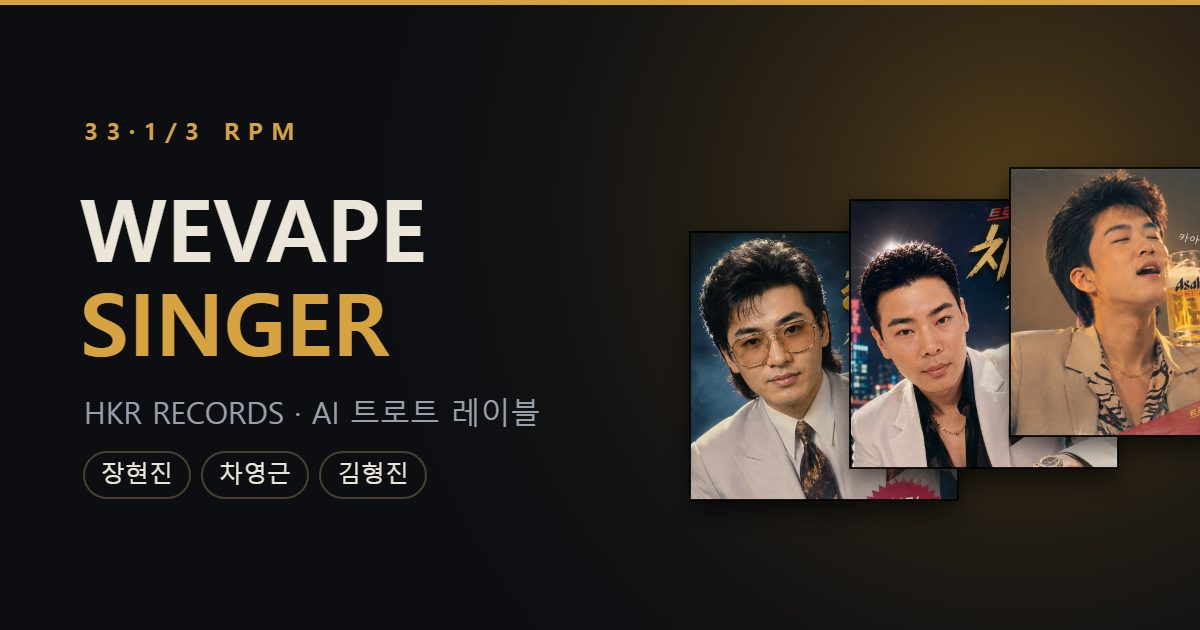
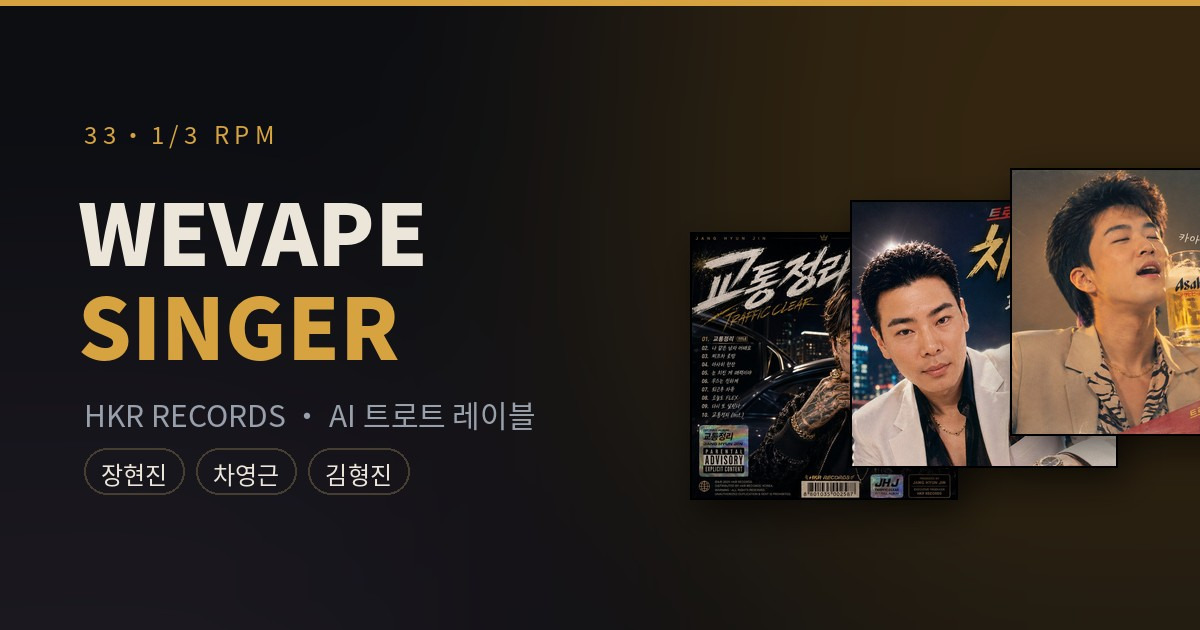
전체 접속자 누적 재생수 집계(공용 서버) · 프로필/앨범자켓 분리 · 1집 자켓 복원 · sw v4

diff --git a/index.html b/index.html
@@ -559,7 +559,8 @@ svg[hidden]{display:none}
    ---------------------------------------------------------------------
    artist  : id(영문·숫자), name(가수명), tag(장르), bio(소개)
              color/color2 = 앨범 배경 그라디언트 색
-             photo = "파일명.jpg"  (비워두면 색 그라디언트로 표시)
+             photo = 가수 프로필 사진 (가수 명단·홈 카드 고정. 앨범 추가해도 안 바뀜)
+   album   : cover = 그 앨범 자켓 (그 앨범 수록곡에만 적용)
    track   : title(곡명), src="파일명.mp3" (비워두면 데모 사운드로 재생)
              duration = 초 단위(선택 · 비워두면 재생할 때 자동으로 읽음)
    ===================================================================== */
@@ -577,7 +578,7 @@ const ARTISTS = [
       "첫 번째는 사랑, 두 번째는 사람, 세 번째는 밀린 업무. 순서까지 정해두고 사는 남자다. 내일 할까 물으면 안 돼 안 돼, 다음에 할까 물어도 안 돼 안 돼. 오늘 할 건 오늘 하고 미련 없이 털어내는 것이 그의 유일한 규칙이다.",
       "그리고 2025년, 그는 바다를 건넜다. 일본 호스트바의 밤을 걸으면서도 매일 뮤직뱅크를 틀어놓았고, 그렇게 꽂힌 한국 힙합을 안고 돌아왔다. 트로트 신사가 마이크를 고쳐 잡은 이유는 하나다. 여기도 좀 정리가 필요해서."
     ],
-    color: "#C9A227", color2: "#16223F", photo: "traffic-clear.jpg",
+    color: "#C9A227", color2: "#16223F", photo: "hyunjin.jpg",
     albums: [
       {
         title: "교통정리", en: "TRAFFIC CLEAR", year: "2025", cat: "HKR-2501", cover: "traffic-clear.jpg",
@@ -664,7 +665,7 @@ const ARTISTS = [
         ]
       },
       {
-        title: "정리할게요", en: "", year: "1987", cat: "AC-0258", cover: "hyunjin.jpg",
+        title: "정리할게요", en: "", year: "1987", cat: "AC-0258", cover: "jeongri-halkkeyo.jpg",
         note: "정규 1집. 트로트 신사 장현진의 데뷔작.",
         tracks: [
           { title: "정리할게요", src: "jeongri-halkkeyo.mp3", duration: 199, tag: "타이틀", lyrics: `
@@ -954,7 +955,61 @@ ARTISTS.forEach((a) => a.albums.forEach((al, ai) => al.tracks.forEach((t, ti) =>
 ARTISTS.forEach(a => { a.trackCount = a.albums.reduce((n, al) => n + al.tracks.length, 0); });
 const PLAYABLE = QUEUE.filter(t => t.src);
 
-/* ---- 재생 기록 (이 기기에 저장) ---- */
+/* ---- 재생 집계 ----
+   REMOTE : 전 세계 접속자 합산 (공용 카운터 서버)
+   local  : 이 기기 백업 (서버가 안 될 때만 사용)          ---- */
+const CT = { base: "https://abacus.jasoncameron.dev", ns: "wevape-singer-hkr" };
+const pad2 = (n) => String(n).padStart(2, "0");
+function isoWeek(d) {
+  const t = new Date(Date.UTC(d.getFullYear(), d.getMonth(), d.getDate()));
+  t.setUTCDate(t.getUTCDate() - ((t.getUTCDay() + 6) % 7) + 3);
+  const y = t.getUTCFullYear();
+  const jan4 = new Date(Date.UTC(y, 0, 4));
+  const w = 1 + Math.round(((t - jan4) / 864e5 - 3 + ((jan4.getUTCDay() + 6) % 7)) / 7);
+  return y + pad2(w);
+}
+function bucket(range, d) {
+  d = d || new Date();
+  if (range === "day") return "d" + d.getFullYear() + pad2(d.getMonth() + 1) + pad2(d.getDate());
+  if (range === "week") return "w" + isoWeek(d);
+  if (range === "month") return "m" + d.getFullYear() + pad2(d.getMonth() + 1);
+  return "all";
+}
+const ckey = (range, trackKey) => bucket(range) + "-" + String(trackKey).replace(/[^a-zA-Z0-9_-]/g, "-");
+const RANGE_ALL = ["day", "week", "month", "all"];
+const REMOTE = {};
+let remoteState = "idle";
+
+function cGet(k) {
+  return fetch(CT.base + "/get/" + CT.ns + "/" + k, { cache: "no-store" })
+    .then(r => (r.status === 404 ? { value: 0 } : r.json()))
+    .then(j => (j.value | 0))
+    .catch(() => null);
+}
+function cHit(k) {
+  fetch(CT.base + "/hit/" + CT.ns + "/" + k, { cache: "no-store" })
+    .then(r => r.json())
+    .then(j => { if (typeof j.value === "number") { REMOTE[k] = j.value; refreshChartRows(); } })
+    .catch(() => {});
+}
+function loadCounts(range) {
+  remoteState = "loading";
+  const ks = PLAYABLE.map(t => ckey(range, t.key));
+  return Promise.all(ks.map(cGet)).then(vals => {
+    let ok = false;
+    ks.forEach((k, i) => { if (vals[i] !== null) { REMOTE[k] = Math.max(REMOTE[k] || 0, vals[i]); ok = true; } });
+    remoteState = ok ? "ok" : "fail";
+    refreshChartRows();
+  });
+}
+function refreshChartRows() {
+  if (currentView !== "chart") return;
+  const box = document.getElementById("rankList");
+  if (box) box.innerHTML = chartRowsHtml();
+  const note = document.getElementById("chartNote");
+  if (note) note.innerHTML = chartNoteHtml();
+}
+
 const PLAYLOG_KEY = "wevape-singer-plays";
 function readLog() {
   try { const v = JSON.parse(localStorage.getItem(PLAYLOG_KEY) || "[]"); return Array.isArray(v) ? v : []; }
@@ -965,15 +1020,25 @@ function writeLog(list) {
 }
 function logPlay(key) {
   const l = readLog(); l.push([key, Date.now()]); writeLog(l);
-  if (currentView === "chart") { const box = document.getElementById("rankList"); if (box) box.innerHTML = chartRowsHtml(); }
+  RANGE_ALL.forEach(r => {
+    const k = ckey(r, key);
+    REMOTE[k] = (REMOTE[k] || 0) + 1;   /* 화면에 즉시 반영 */
+    cHit(k);                            /* 서버에 누적 */
+  });
+  refreshChartRows();
 }
-const RANGES = { day: 1, week: 7, month: 30 };
-const RANGE_LABEL = { day: "일간", week: "주간", month: "월간" };
+const RANGE_LABEL = { day: "일간", week: "주간", month: "월간", all: "전체 누적" };
+const RANGE_DESC = { day: "오늘 하루", week: "이번 주(월~일)", month: "이번 달", all: "서비스 시작 이후 전체" };
+function localCount(range, key) {
+  const b = bucket(range); let n = 0;
+  readLog().forEach(([k, t]) => { if (k === key && bucket(range, new Date(t)) === b) n++; });
+  return n;
+}
+function countOf(range, key) {
+  return Math.max(REMOTE[ckey(range, key)] || 0, localCount(range, key));
+}
 function rankFor(range) {
-  const since = Date.now() - RANGES[range] * 864e5;
-  const cnt = {};
-  readLog().forEach(([k, t]) => { if (t >= since) cnt[k] = (cnt[k] || 0) + 1; });
-  return PLAYABLE.map(t => ({ t, n: cnt[t.key] || 0 })).sort((a, b) => b.n - a.n || a.t.index - b.t.index);
+  return PLAYABLE.map(t => ({ t, n: countOf(range, t.key) })).sort((a, b) => b.n - a.n || a.t.index - b.t.index);
 }
 
 $("#labelName").textContent = LABEL.name;
@@ -1227,9 +1292,16 @@ function chartRowsHtml() {
     </li>`).join("");
 }
 
+function chartNoteHtml() {
+  const total = PLAYABLE.reduce((n, t) => n + countOf("all", t.key), 0);
+  const state = remoteState === "loading" ? "집계 불러오는 중…"
+              : remoteState === "fail" ? "서버 연결 실패 — 이 기기 기록만 표시 중"
+              : "이 링크에 접속한 모든 사람의 재생수를 합산합니다";
+  return `집계 기준 <b>${RANGE_LABEL[chartRange]}</b> · ${RANGE_DESC[chartRange]} · 전체 누적 ${total}회<br>${state}`;
+}
+
 function renderChart() {
   currentArtist = null; currentView = "chart";
-  const total = readLog().length;
   view.innerHTML = `
     <p class="eyebrow">Popularity chart</p>
     <div class="chart-head"><h1 class="big">위베이프 광대 인기차트</h1></div>
@@ -1238,11 +1310,12 @@ function renderChart() {
       <button class="tab" data-range="day" role="tab" aria-selected="${chartRange === "day"}">일간</button>
       <button class="tab" data-range="week" role="tab" aria-selected="${chartRange === "week"}">주간</button>
       <button class="tab" data-range="month" role="tab" aria-selected="${chartRange === "month"}">월간</button>
+      <button class="tab" data-range="all" role="tab" aria-selected="${chartRange === "all"}">전체</button>
     </div>
     <ul class="ranks" id="rankList">${chartRowsHtml()}</ul>
-    <p class="chart-note">누적 재생 ${total}회 · 집계 기준 ${RANGE_LABEL[chartRange]}(최근 ${RANGES[chartRange]}일)<br>
-      재생 기록은 지금 보고 있는 기기에 저장됩니다. 방문자 전체 합산 집계로 바꾸려면 별도 서버 연결이 필요합니다.</p>`;
+    <p class="chart-note" id="chartNote">${chartNoteHtml()}</p>`;
   syncRail();
+  loadCounts(chartRange);
 }
 
 function renderPlayer(t) {
@@ -1411,7 +1484,8 @@ function play(track) {
     const rec = $("#record");
     rec.style.setProperty("--label-a", a.color);
     const art = $("#recordArt");
-    if (a.photo) { art.src = a.photo; art.hidden = false; } else { art.hidden = true; art.removeAttribute("src"); }
+    const cv = track.album && track.album.cover;
+    if (cv) { art.src = cv; art.hidden = false; } else { art.hidden = true; art.removeAttribute("src"); }
     $("#durTime").textContent = track.duration ? fmt(track.duration) : "0:00";
   }
   const wasPlaying = !au.paused;

diff --git a/sw.js b/sw.js
@@ -1,4 +1,4 @@
-const CACHE = "wevape-singer-v3";
+const CACHE = "wevape-singer-v4";
 const CORE = ["./manifest.json", "./icon.png", "./icon-192.png"];
 
 self.addEventListener("install", (e) => {
